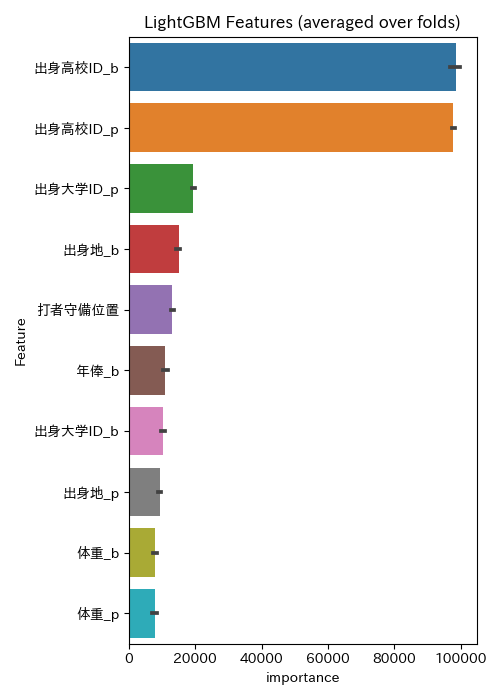
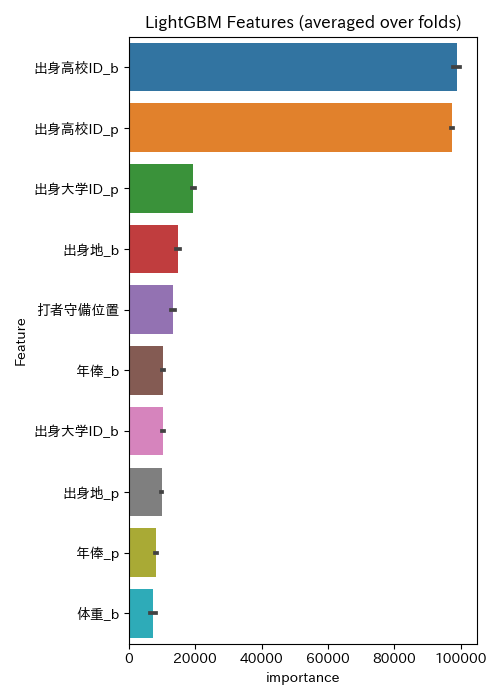
fe001

diff --git a/experiments/create_features.py b/experiments/create_features.py
@@ -22,25 +22,25 @@ PLAYER_USE_COL = [
 ]
 PITCH_USE_COL = [
     '球種', '投球位置区域', '年度', '試合内連番', '試合内投球数', '日付',
-    'ホームチームID', 'アウェイチームID', '球場ID', '試合種別詳細', 'イニング', '表裏',
-    'イニング内打席数', '打席内投球数', '投手ID', '投手チームID', '投手投球左右', '投手役割', '投手登板順',
-    '投手試合内対戦打者数', '投手試合内投球数', '投手イニング内投球数', '打者ID', '打者チームID', '打者打席左右',
+    '試合種別詳細', 'イニング', '表裏',
+    'イニング内打席数', '打席内投球数', '投手ID', '投手投球左右', '投手役割', '投手登板順',
+    '投手試合内対戦打者数', '投手試合内投球数', '投手イニング内投球数', '打者ID', '打者打席左右',
     '打者打順', '打者守備位置', '打者試合内打席数', 'プレイ前ホームチーム得点数', 'プレイ前アウェイチーム得点数',
     'プレイ前アウト数', 'プレイ前ボール数', 'プレイ前ストライク数', 'プレイ前走者状況'
 ]
 DATETIME_COL = ['日付', '生年月日_p', '生年月日_b']
 DELETE_COL = [
     '年度', '日付', '日付_year', '投手ID', '打者ID', '選手ID_p', '生年月日_p', '選手ID_b', '生年月日_b',
-    'チームID_p', 'チームID_b', '位置_p', '生年月日_p_day', '生年月日_p_dow', '生年月日_b_day', '生年月日_b_dow'
+    'チームID_p', 'チームID_b', '位置_p', '生年月日_p_day', '生年月日_p_dow', '生年月日_b_day', '生年月日_b_dow',
+    '日付_month', '日付_day'
 ]
 CATEGORICAL_COL = [
-    'ホームチームID', 'アウェイチームID', '球場ID', '試合種別詳細', '表裏',
-    '投手チームID', '投手投球左右', '投手役割', '打者チームID', '打者打席左右', '打者守備位置', '投_p', '打_p',
+    '試合種別詳細', '表裏', '投手投球左右', '投手役割', '打者打席左右', '打者守備位置', '投_p', '打_p',
     'プレイ前走者状況', '出身高校ID_p', '出身大学ID_p', '社会人_p', 'ドラフト種別_p', '出身国_p',
     '出身地_p', '位置_b', '投_b', '打_b', '出身高校ID_b', '出身大学ID_b', '社会人_b',
     'ドラフト種別_b', '出身国_b', '出身地_b'
 ]
-fename = 'fe000'
+fename = 'fe001'
 
 
 if __name__ == '__main__':
